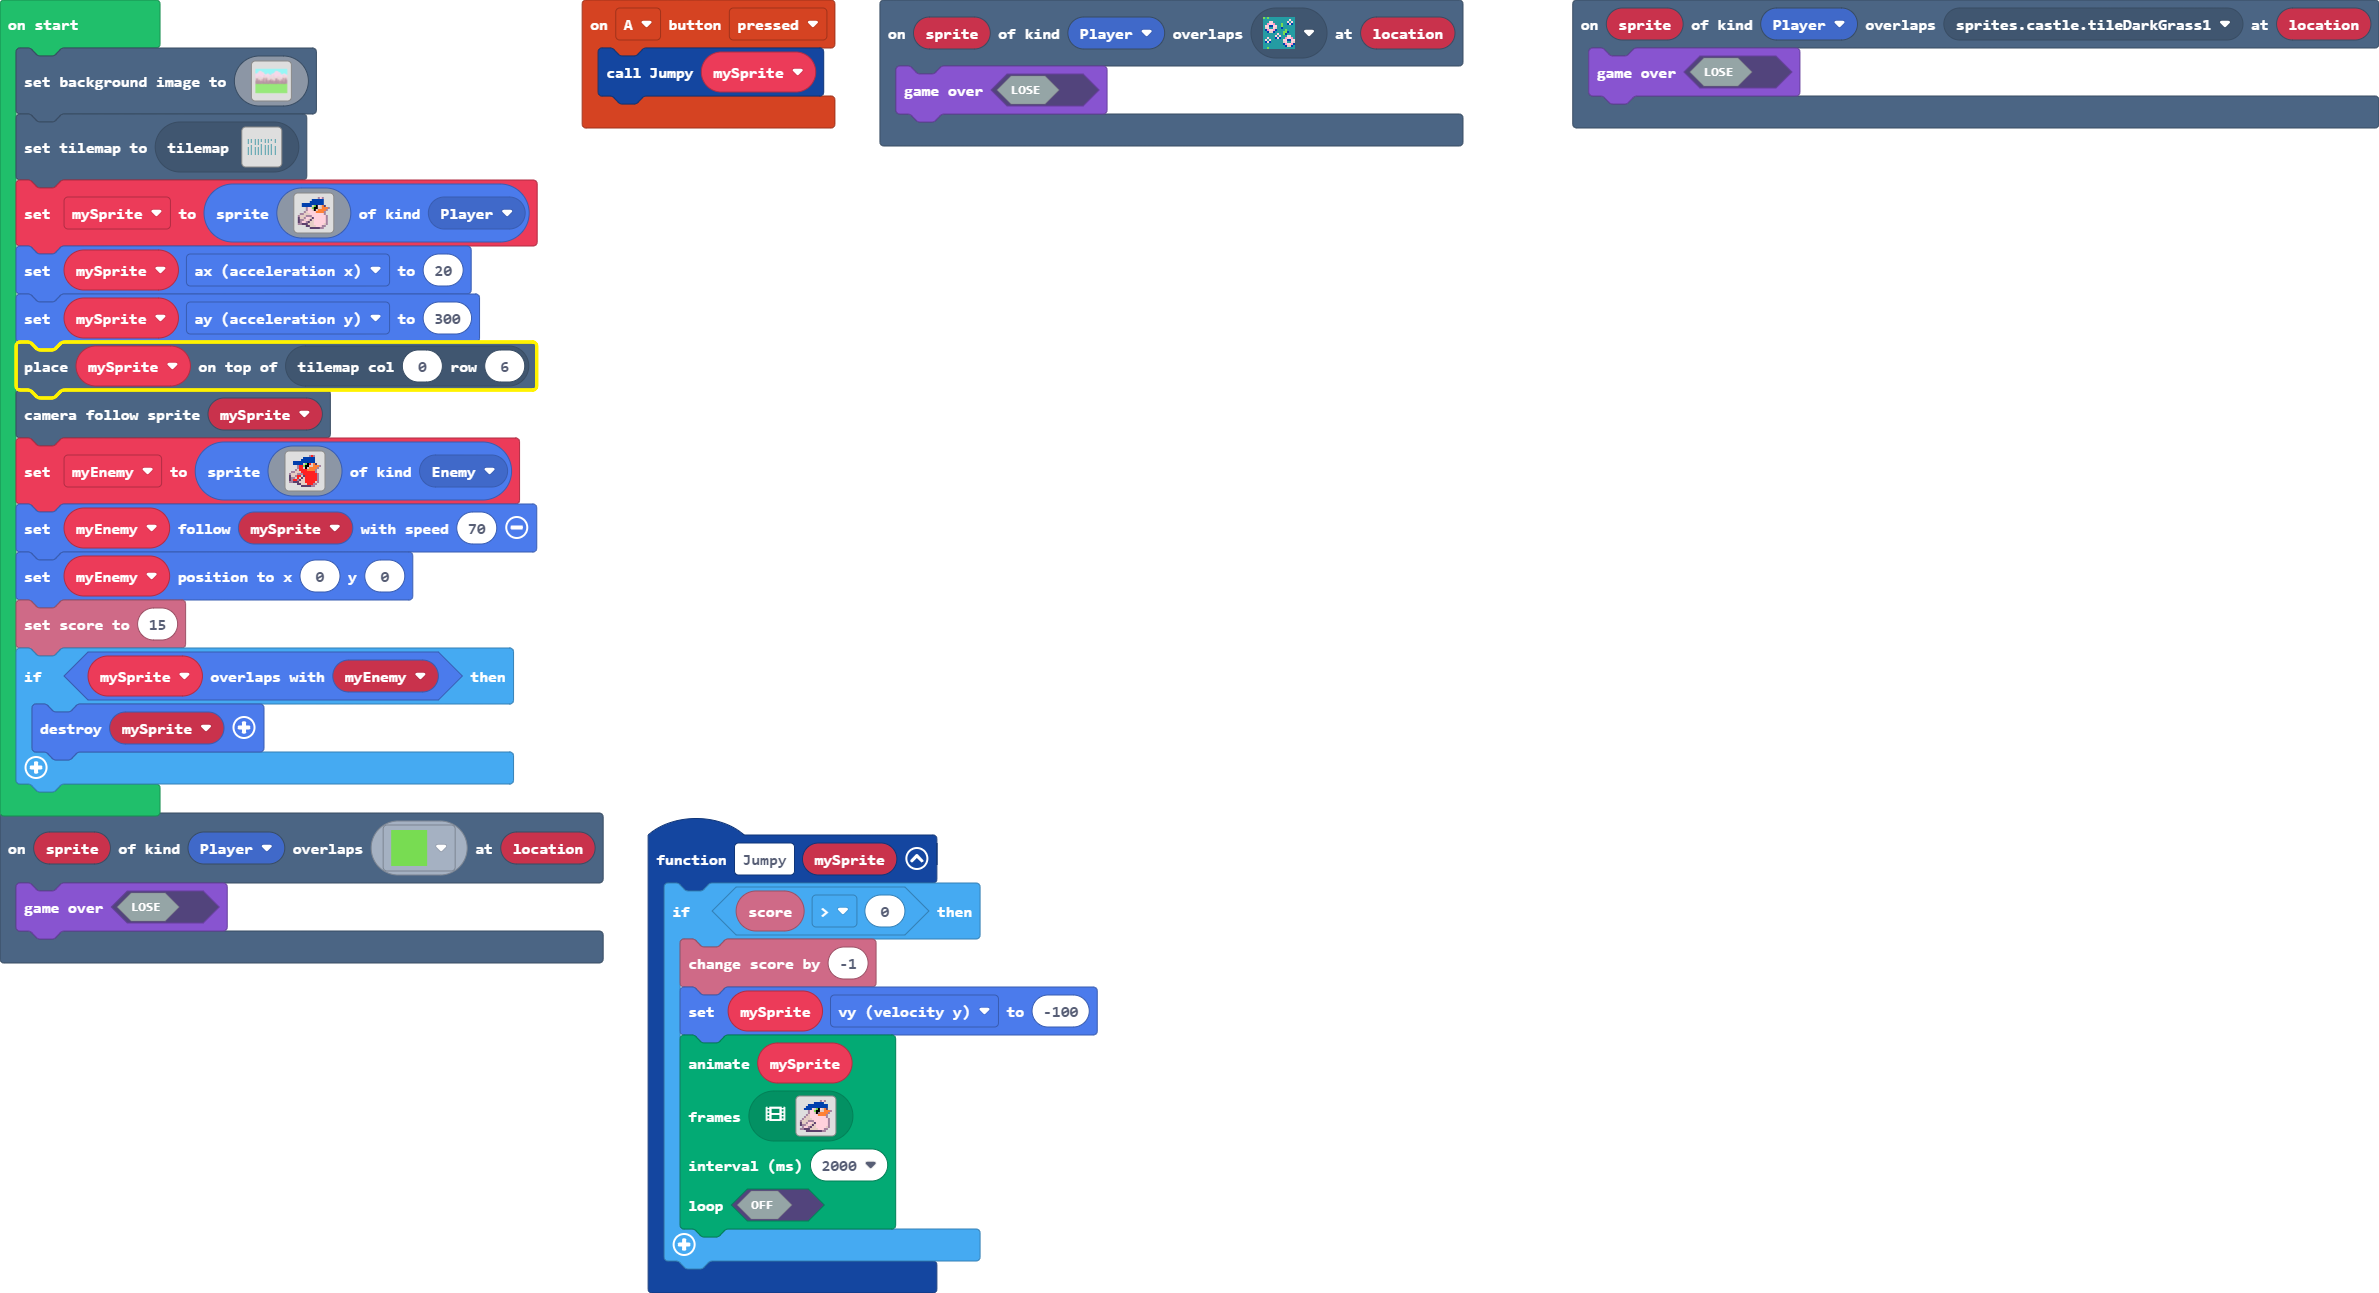
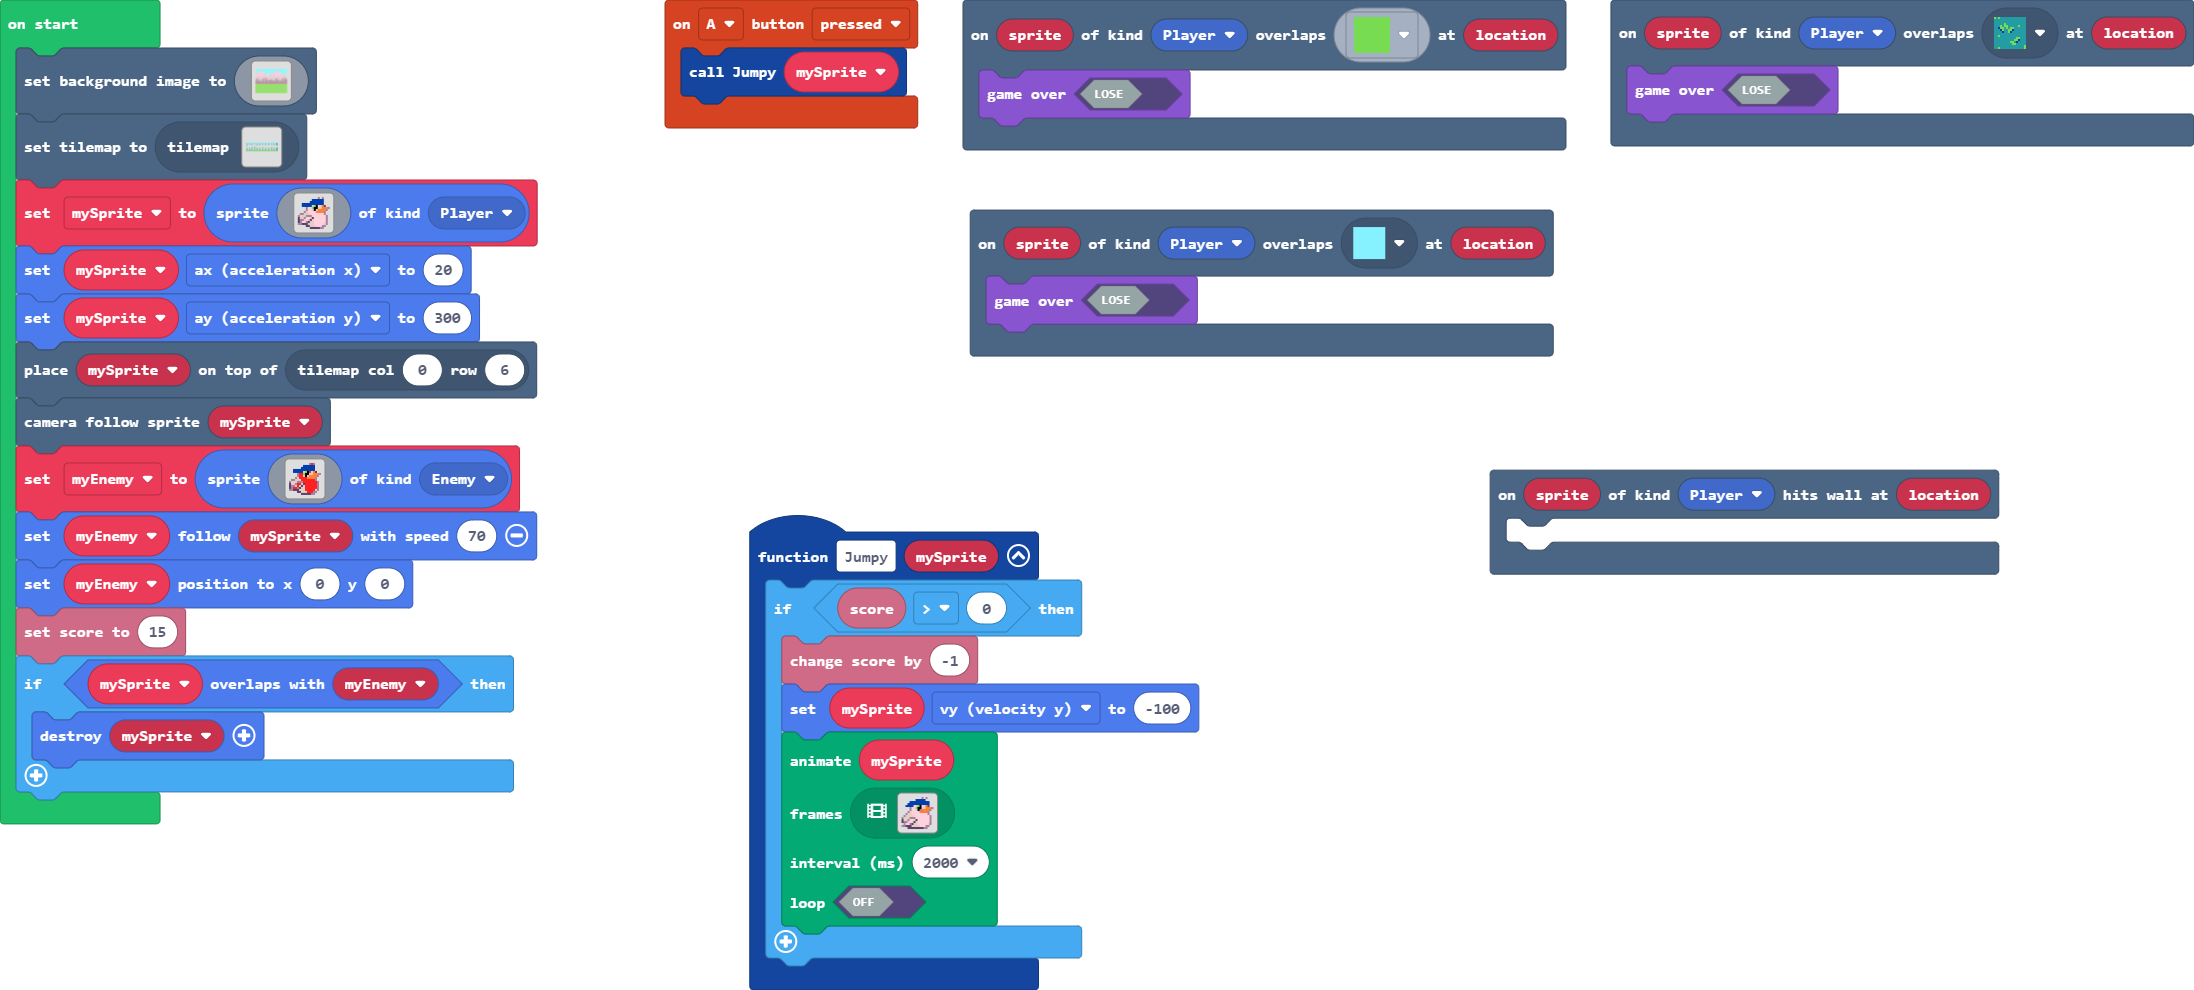
Update main.blocks, main.ts, tilemap.g.jres, tilemap.g.ts

diff --git a/tilemap.g.ts b/tilemap.g.ts
@@ -4,6 +4,12 @@ namespace myTiles {
     export const tile1 = image.ofBuffer(hex``);
     //% fixedInstance jres blockIdentity=images._tile
     export const transparency16 = image.ofBuffer(hex``);
+    //% fixedInstance jres blockIdentity=images._tile
+    export const tile2 = image.ofBuffer(hex``);
+    //% fixedInstance jres blockIdentity=images._tile
+    export const tile3 = image.ofBuffer(hex``);
+    //% fixedInstance jres blockIdentity=images._tile
+    export const tile4 = image.ofBuffer(hex``);
 
     helpers._registerFactory("tilemap", function(name: string) {
         switch(helpers.stringTrim(name)) {
@@ -64,25 +70,6 @@ namespace myTiles {
 . . . . . . . . . . . . . . . . 
 . . . . . . . . . . . . . . . . 
 `, [myTiles.transparency16], TileScale.Sixteen);
-            case "level3":
-            case "level3":return tiles.createTilemap(hex`200010000000010000010000000100000100000100000001000001000001000000010000000001000001000000010000010000010000000100000100000100000001000000000100000100000001000001000001000000010000010000000000000100000000010000010000000100000100000000000001000001000000000000010000000001000000000000010000010000000000000000000000000000000000000000000000000000000001000001000001000000000000000000010000000000000000000000010000000000000000000100000001000001000001000000000000000000000001000000000000000000010000000100000100000100000001000000000100000100000001000001000001000000010000010000010000000100000000010000010000000100000100000100000001000001000001000000010000000001000001000000010000010000010000000100000100000100000001000000000100000100000001000001000001000000010000010000010000000100000000010000010000000100000100000100000001000001000001000000010000000001000001000000010000010000010000000100000100000100000001000000000100000100000001000001000001000000010000010000010000000100000000010000010000000100000100000100000001000001000001000000010000`, img`
-................................
-................................
-................................
-................................
-................................
-................................
-................................
-................................
-................................
-................................
-................................
-................................
-................................
-................................
-................................
-................................
-`, [myTiles.transparency16,sprites.castle.tileDarkGrass2], TileScale.Sixteen);
             case "level5":
             case "level5":return tiles.createTilemap(hex`1000100000000000000000000000000000000000000000000000000000000000000000000000000000000000000000000000000000000000000000000000000000000000000000000000000000000000000000000000000000000000000000000000000000000000000000000000000000000000000000000000000000000000000000000000000000000000000000000000000000000000000000000000000000000000000000000000000000000000000000000000000000000000000000000000000000000000000000000000000000000000000000000000000000000000000000000000000000000000000000000000000000000000000000000000000000000000`, img`
 . . . . . . . . . . . . . . . . 
@@ -102,6 +89,25 @@ namespace myTiles {
 . . . . . . . . . . . . . . . . 
 . . . . . . . . . . . . . . . . 
 `, [myTiles.transparency16], TileScale.Sixteen);
+            case "level3":
+            case "level3":return tiles.createTilemap(hex`4000100004040204040404020404040402040404040204040404020404040402040404040402040404040402040404040402040404040402040404040204040404020202040402040404040204040404020404040402040404040204040404020404040404020404040404020404040404020404040404020404040402040404040202020000020000000002000000000200000000020000000002000000000200000000000200000000000200000000000200000000000200000000020000000002020200000200000000020000000002000000000000000000020000000002000000000002000000000002000000000002000000000002000000000200000000020202000002000000000000000000020000000000000000000200000000020000000000000000000000020000000000020000000000000000000002000000000202020000020000000000000000000000000000000000000000000000000000000000000000000000000000000000000000000000000000000000000000000000000000000000000000000000000000000000000000000000000000000000000000000000000000000000000000000000000000000000000000000000000000000000000000000000000000000000000000000002000000000000000000000000000000000000000000000000000000000000000000000000000000000000000000000000000000000000000000000200000000020000000000000000000000000000000200000000000000000000000000000000000200000000000000000000000000000200000000020000000002000000000200000000020000000002000000000002000000000002000000000002000000000002000000000200000000020202000002000000000200000000020000000002000000000200000000020000000000020000000000020000000000020000000000020000000002000000000202020000020000000002000000000200000000020000000002000000000200000000000200000000000200000000000200000000000200000000020000000002020200000200000000020000000002000000000200000000020000000002000000000002000000000002000000000002000000000002000000000200000000020202000002000000000200000000020000000002000000000200000000020000000000020000000000020000000000020000000000020000000002000000000202020303020303030302030303030203030303020303030302030303030203030303030203030303030203030303030203030303030203030303020303030302020203030203030303020303030302030303030203030303020303030302030303030302030303030302030303030301030303030302030303030203030303020202`, img`
+................................................................
+................................................................
+................................................................
+................................................................
+................................................................
+................................................................
+................................................................
+................................................................
+................................................................
+................................................................
+................................................................
+................................................................
+................................................................
+................................................................
+................................................................
+................................................................
+`, [myTiles.transparency16,sprites.castle.tileDarkGrass3,sprites.castle.tileDarkGrass1,sprites.skillmap.islandTile4,myTiles.tile2], TileScale.Sixteen);
         }
         return null;
     })
@@ -110,6 +116,12 @@ namespace myTiles {
         switch(helpers.stringTrim(name)) {
             case "tile1":return tile1;
             case "transparency16":return transparency16;
+            case "myTile":
+            case "tile2":return tile2;
+            case "myTile0":
+            case "tile3":return tile3;
+            case "myTile1":
+            case "tile4":return tile4;
         }
         return null;
     })

diff --git a/main.ts b/main.ts
@@ -1,3 +1,9 @@
+scene.onHitWall(SpriteKind.Player, function (sprite, location) {
+	
+})
+scene.onOverlapTile(SpriteKind.Player, assets.tile`myTile`, function (sprite, location) {
+    game.gameOver(false)
+})
 function Jumpy (mySprite: Sprite) {
     if (info.score() > 0) {
         info.changeScoreBy(-1)
@@ -68,9 +74,6 @@ controller.A.onEvent(ControllerButtonEvent.Pressed, function () {
     Jumpy(mySprite)
 })
 scene.onOverlapTile(SpriteKind.Player, sprites.skillmap.islandTile4, function (sprite, location) {
-    game.gameOver(false)
-})
-scene.onOverlapTile(SpriteKind.Player, sprites.castle.tileDarkGrass2, function (sprite, location) {
     game.gameOver(false)
 })
 let mySprite: Sprite = null
